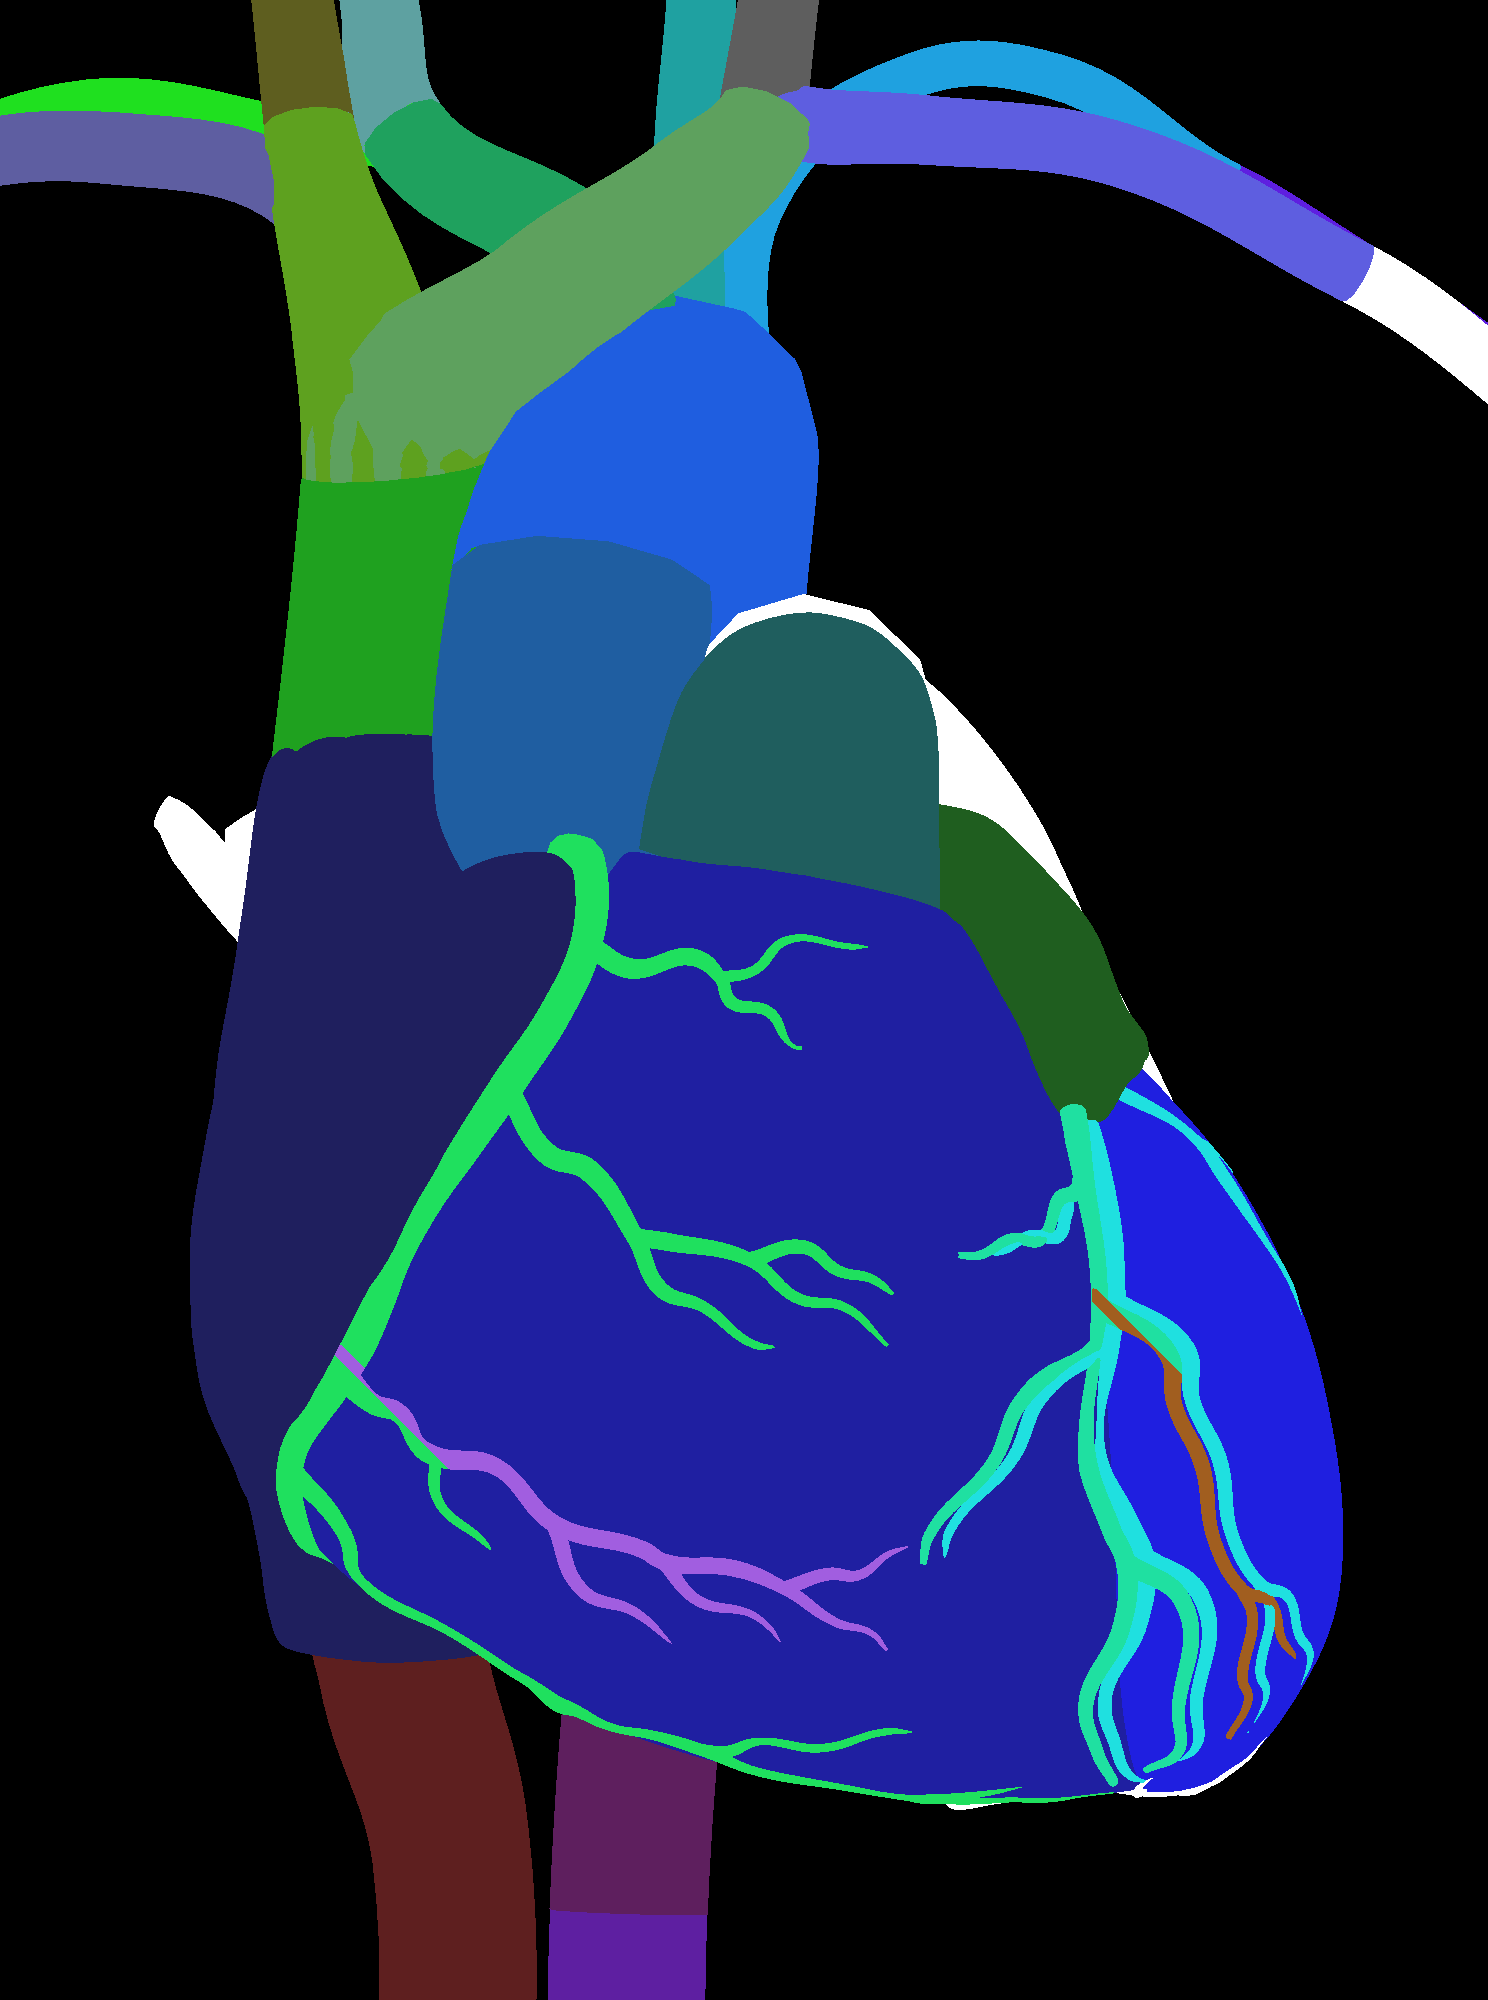
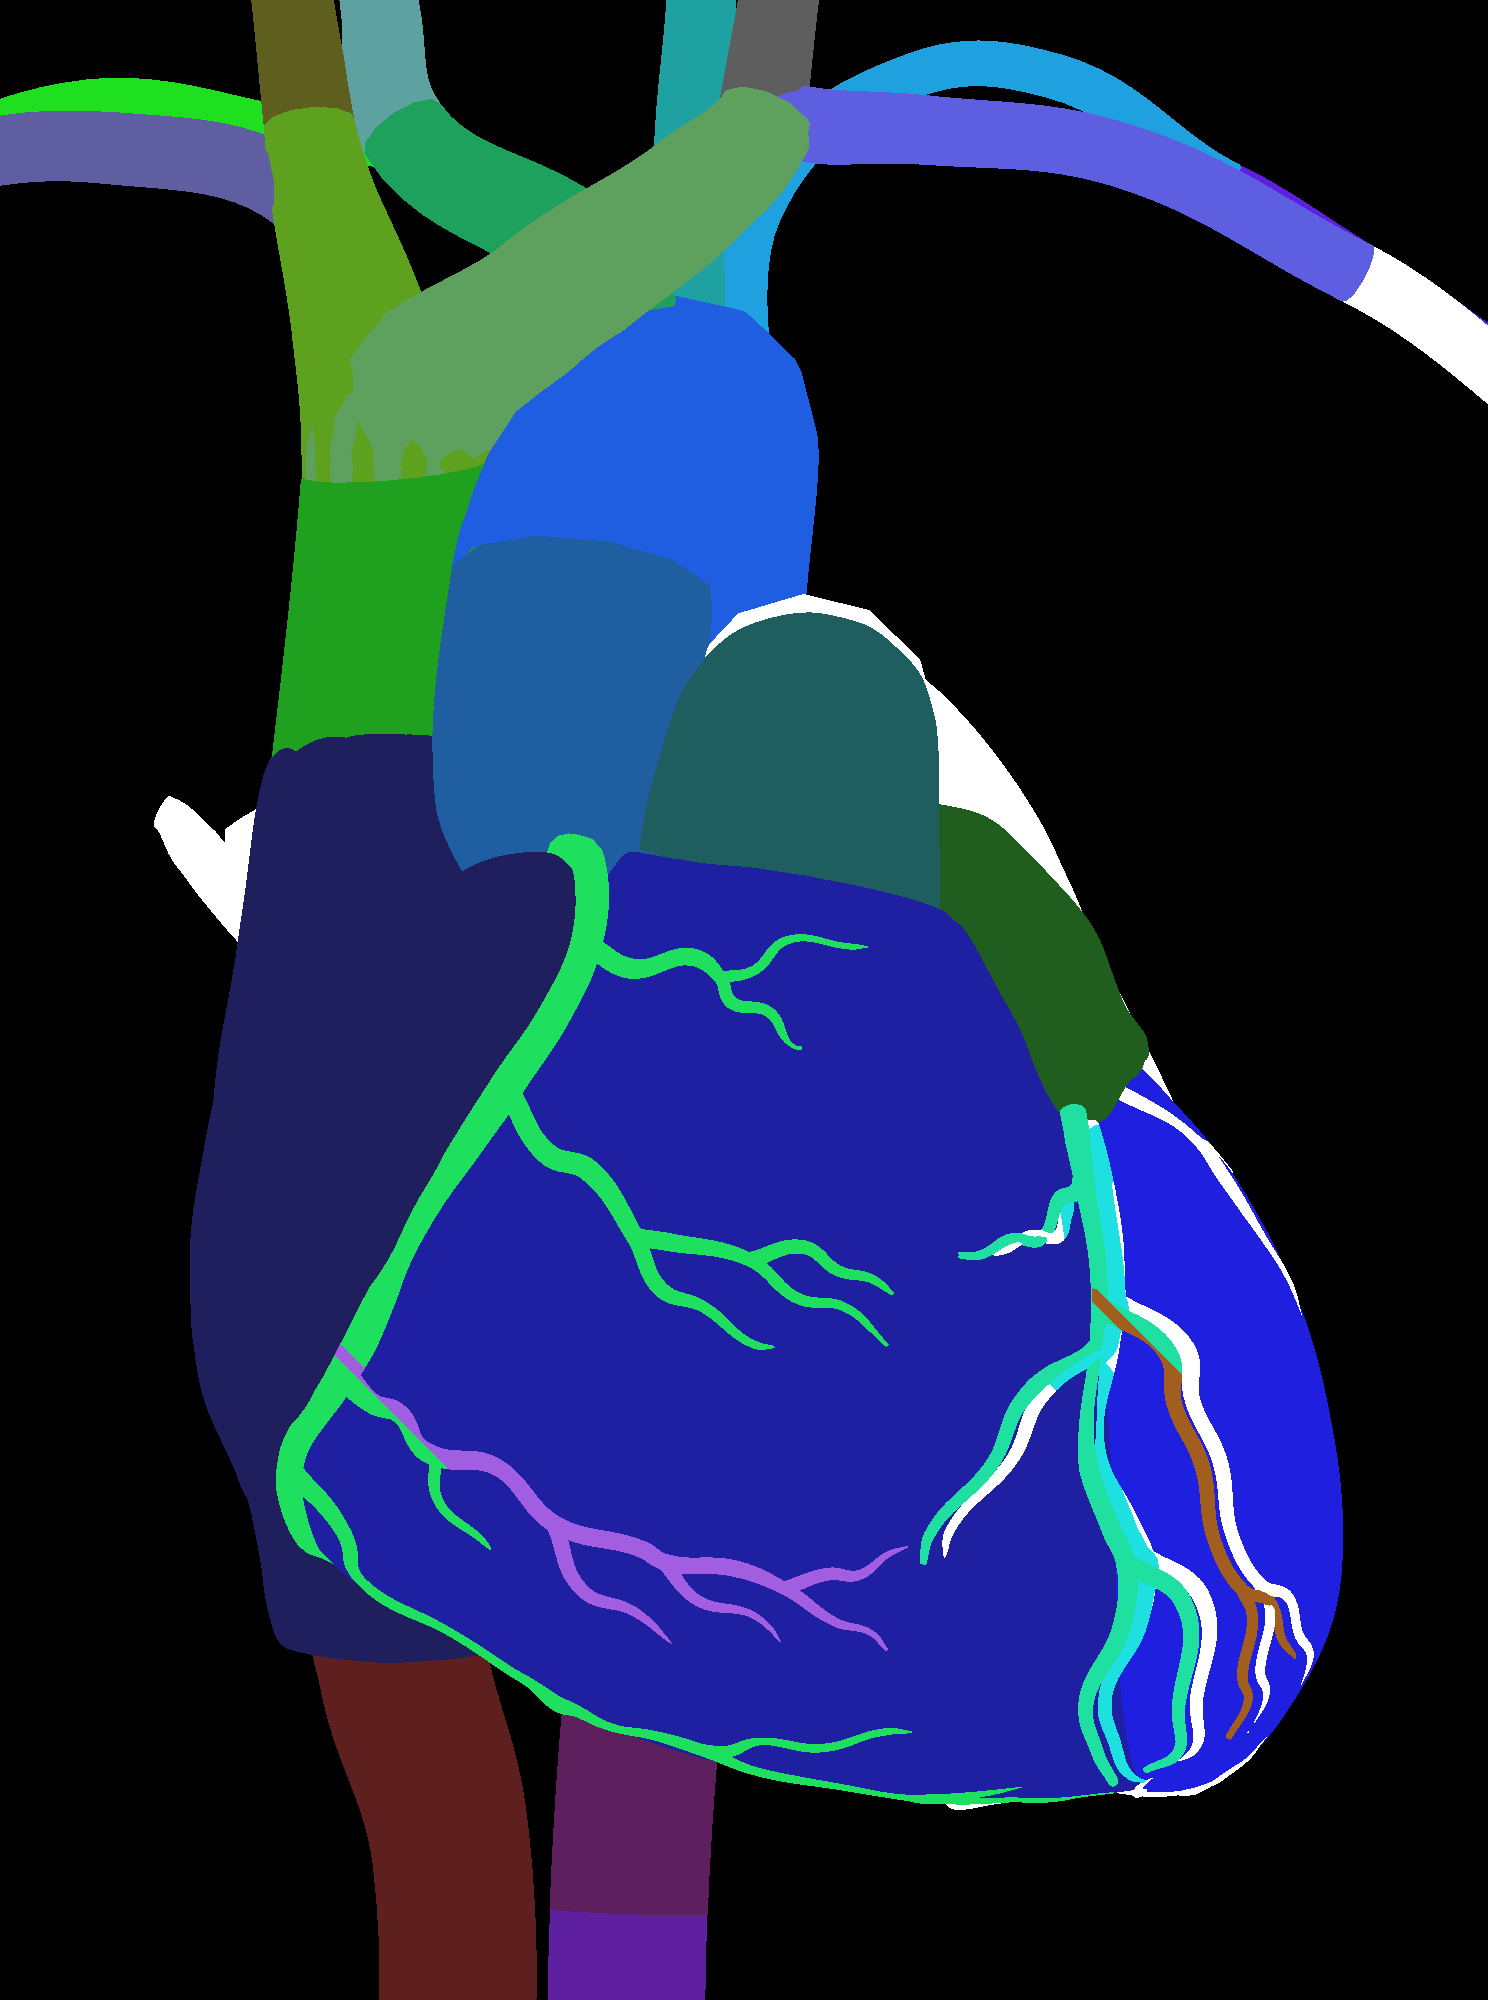
Heart: the great cardiac vein lights up as the main vein only; About page: a note on cookies
Colin, 2026-11-24: 'the great cardiac vein is just the main vein and not all of the branches', and a cookie note for Google Analytics on the About page.

Claude-Session: https://claude.ai/code/session_01Y6yU8uuHhdDwkywiWXF5mB

diff --git a/about.html b/about.html
@@ -127,6 +127,11 @@ p { margin: 0 0 18px; }
     <p id="contact">Email <a href="mailto:support@anatomyquizzes.com">support@anatomyquizzes.com</a>.</p>
   </section>
 
+  <section class="fix">
+    <h2>Cookies</h2>
+    <p>This site uses Google Analytics to count visits and to see which quizzes get played. It sets cookies in your browser to do that. There are no accounts, and I don't collect names or email addresses.</p>
+  </section>
+
   <section class="credits">
     <h2>Credits</h2>
     <p>3D anatomy from <a href="https://github.com/Z-Anatomy/Models-of-human-anatomy">Z-Anatomy</a>, the libre 3D atlas of anatomy (CC BY-SA 4.0). Built on BodyParts3D by The Database Center for Life Science (CC BY-SA 2.1 Japan). The images on this site are derived from those models and are shared under the same license, <a href="https://creativecommons.org/licenses/by-sa/4.0/">CC BY-SA 4.0</a>. Rendered in Blender.</p>
